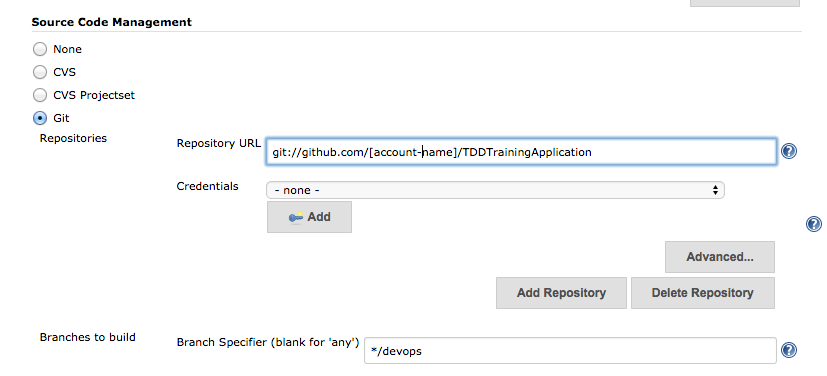
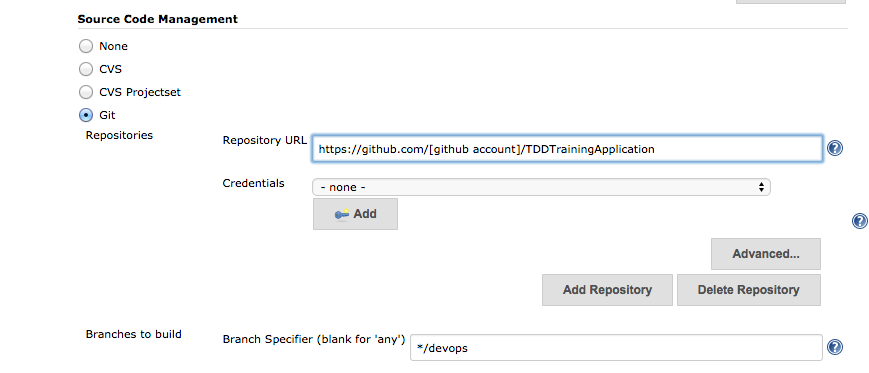
Initial commit exercise-04

diff --git a/exercise-04/README.md b/exercise-04/README.md
@@ -1,0 +1,35 @@
+# Creating a simple build job
+
+In this exercise a simple build job is created, and the job will be started from Jenkins.
+
+## Steps to create the first build job
+
+- Goto the directory where the TDDTrainingApplication is checked out, and also if the current branch is 'devops'
+```
+# To view current branch
+git status
+```
+- Create a directory with the name 'pipeline'
+```
+mkdir pipeline
+```
+- Add a file with the name 'job-101.groovy' in the 'pipeline' directory and paste the following content in the file.
+```groovy
+// Replace 'Hylke1982' within the URL with your own GitHub account
+job {
+    name 'First build job'
+    scm {
+        git('https://github.com/Hylke1982/TDDTrainingApplication', 'devops')
+    }
+    steps {
+        maven('clean package')
+    }
+}
+```
+- Add, commit and push the changes to GitHub
+```
+# Add
+git add .
+git commit -m "Some message"
+git push origin devops
+```
